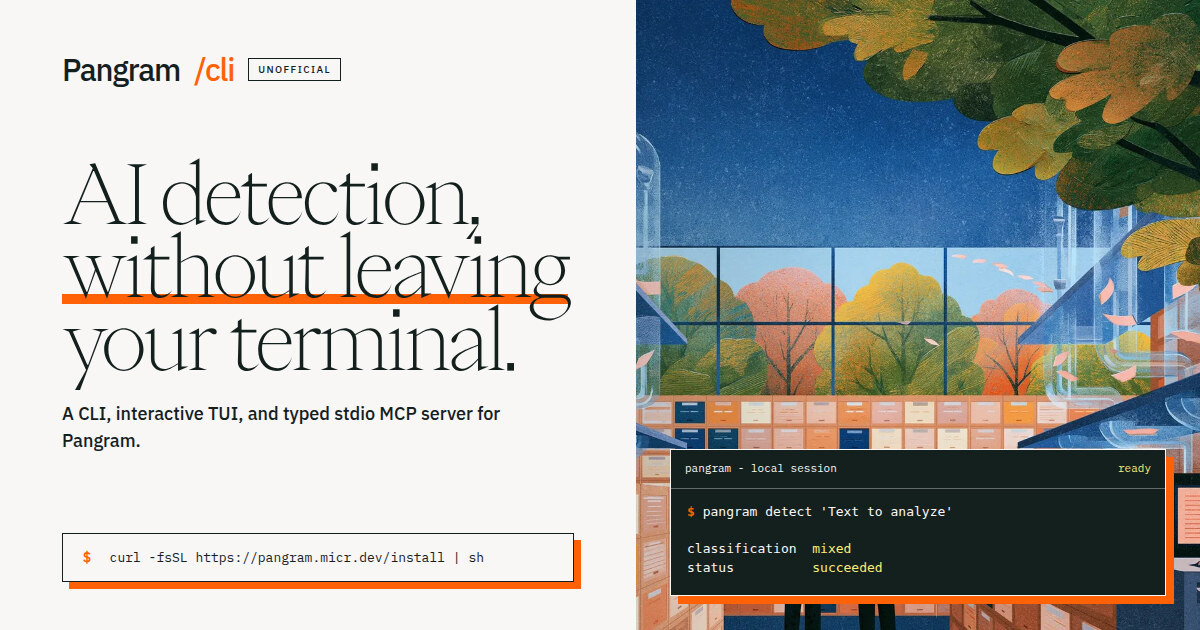
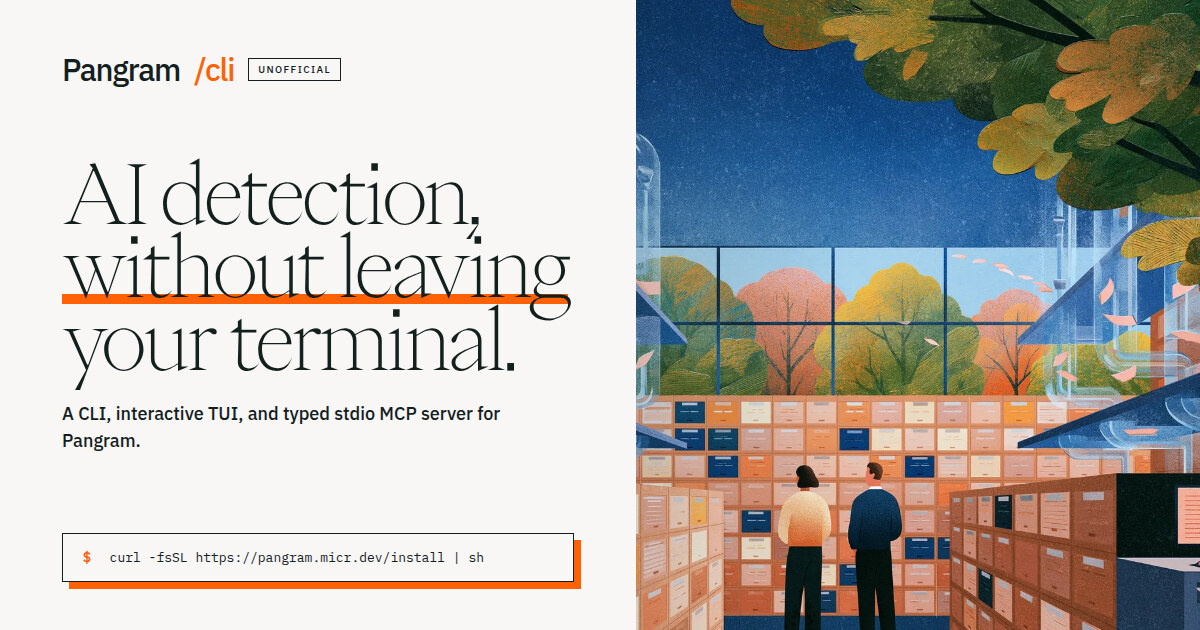
fix(docs): simplify social preview image

Changed region(s): [[0.555, 0.6937, 0.9867, 0.9651]]

diff --git a/docs-app/og-image.html b/docs-app/og-image.html
@@ -27,12 +27,6 @@ rm docs-app/public/landing/images/og-image.png
       .visual { position: relative; overflow: hidden; background: #14201e; }
       .visual::before { position: absolute; inset: 0; z-index: 1; background: linear-gradient(90deg, rgba(20,32,30,.13), transparent 38%); content: ''; }
       .visual img { width: 100%; height: 100%; object-fit: cover; object-position: 65% center; }
-      .terminal { position: absolute; right: 34px; bottom: 34px; left: 34px; z-index: 2; border: 1px solid #f8f7f6; color: #f8f7f6; background: #14201e; box-shadow: 8px 8px 0 #ff6106; font: 13px/1.45 Mono, monospace; }
-      .terminal__top { display: flex; justify-content: space-between; padding: 11px 14px; border-bottom: 1px solid rgba(248,247,246,.35); font-size: 11px; }
-      .terminal__top span:last-child { color: #f9ed77; }
-      pre { margin: 0; padding: 14px 16px 17px; white-space: pre-wrap; }
-      pre b { color: #ff6106; }
-      pre strong { color: #f9ed77; font-weight: 400; }
     </style>
   </head>
   <body>
@@ -44,13 +38,6 @@ rm docs-app/public/landing/images/og-image.png
     </main>
     <aside class="visual">
       <img src="./public/landing/images/scene-01.webp" alt="">
-      <div class="terminal">
-        <div class="terminal__top"><span>pangram - local session</span><span>ready</span></div>
-        <pre><b>$</b> pangram detect 'Text to analyze'
-
-classification  <strong>mixed</strong>
-status          <strong>succeeded</strong></pre>
-      </div>
     </aside>
   </body>
 </html>
